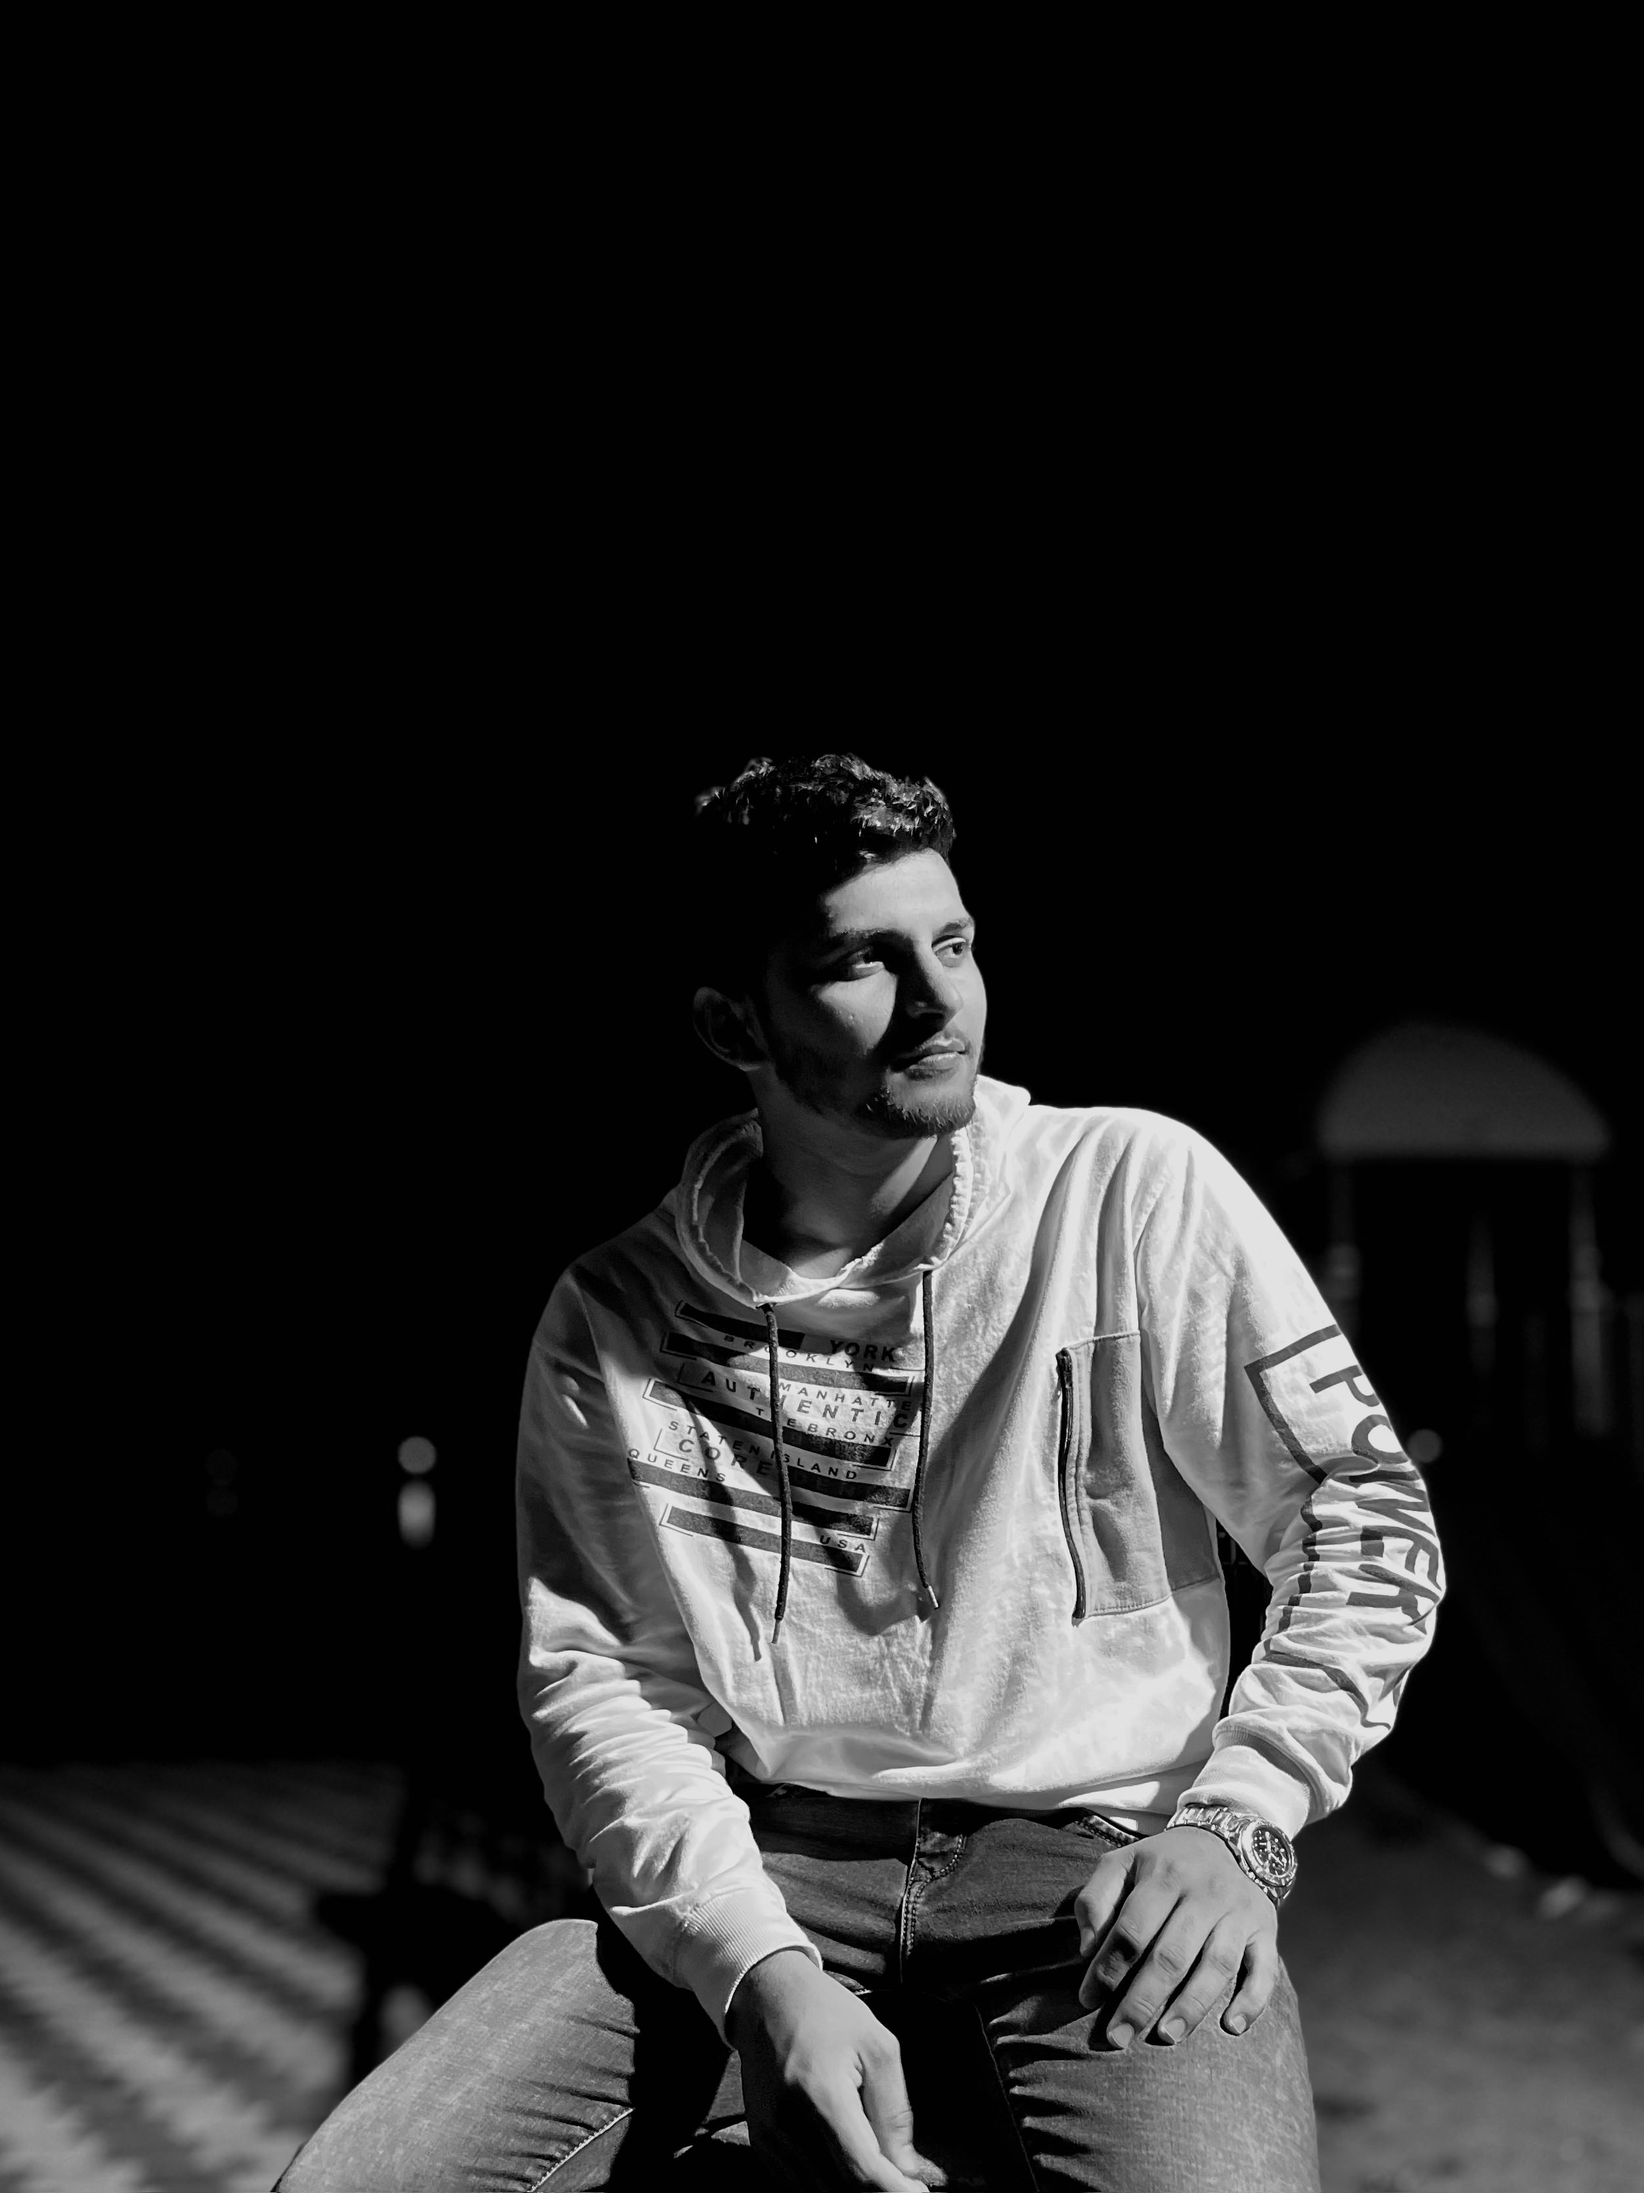
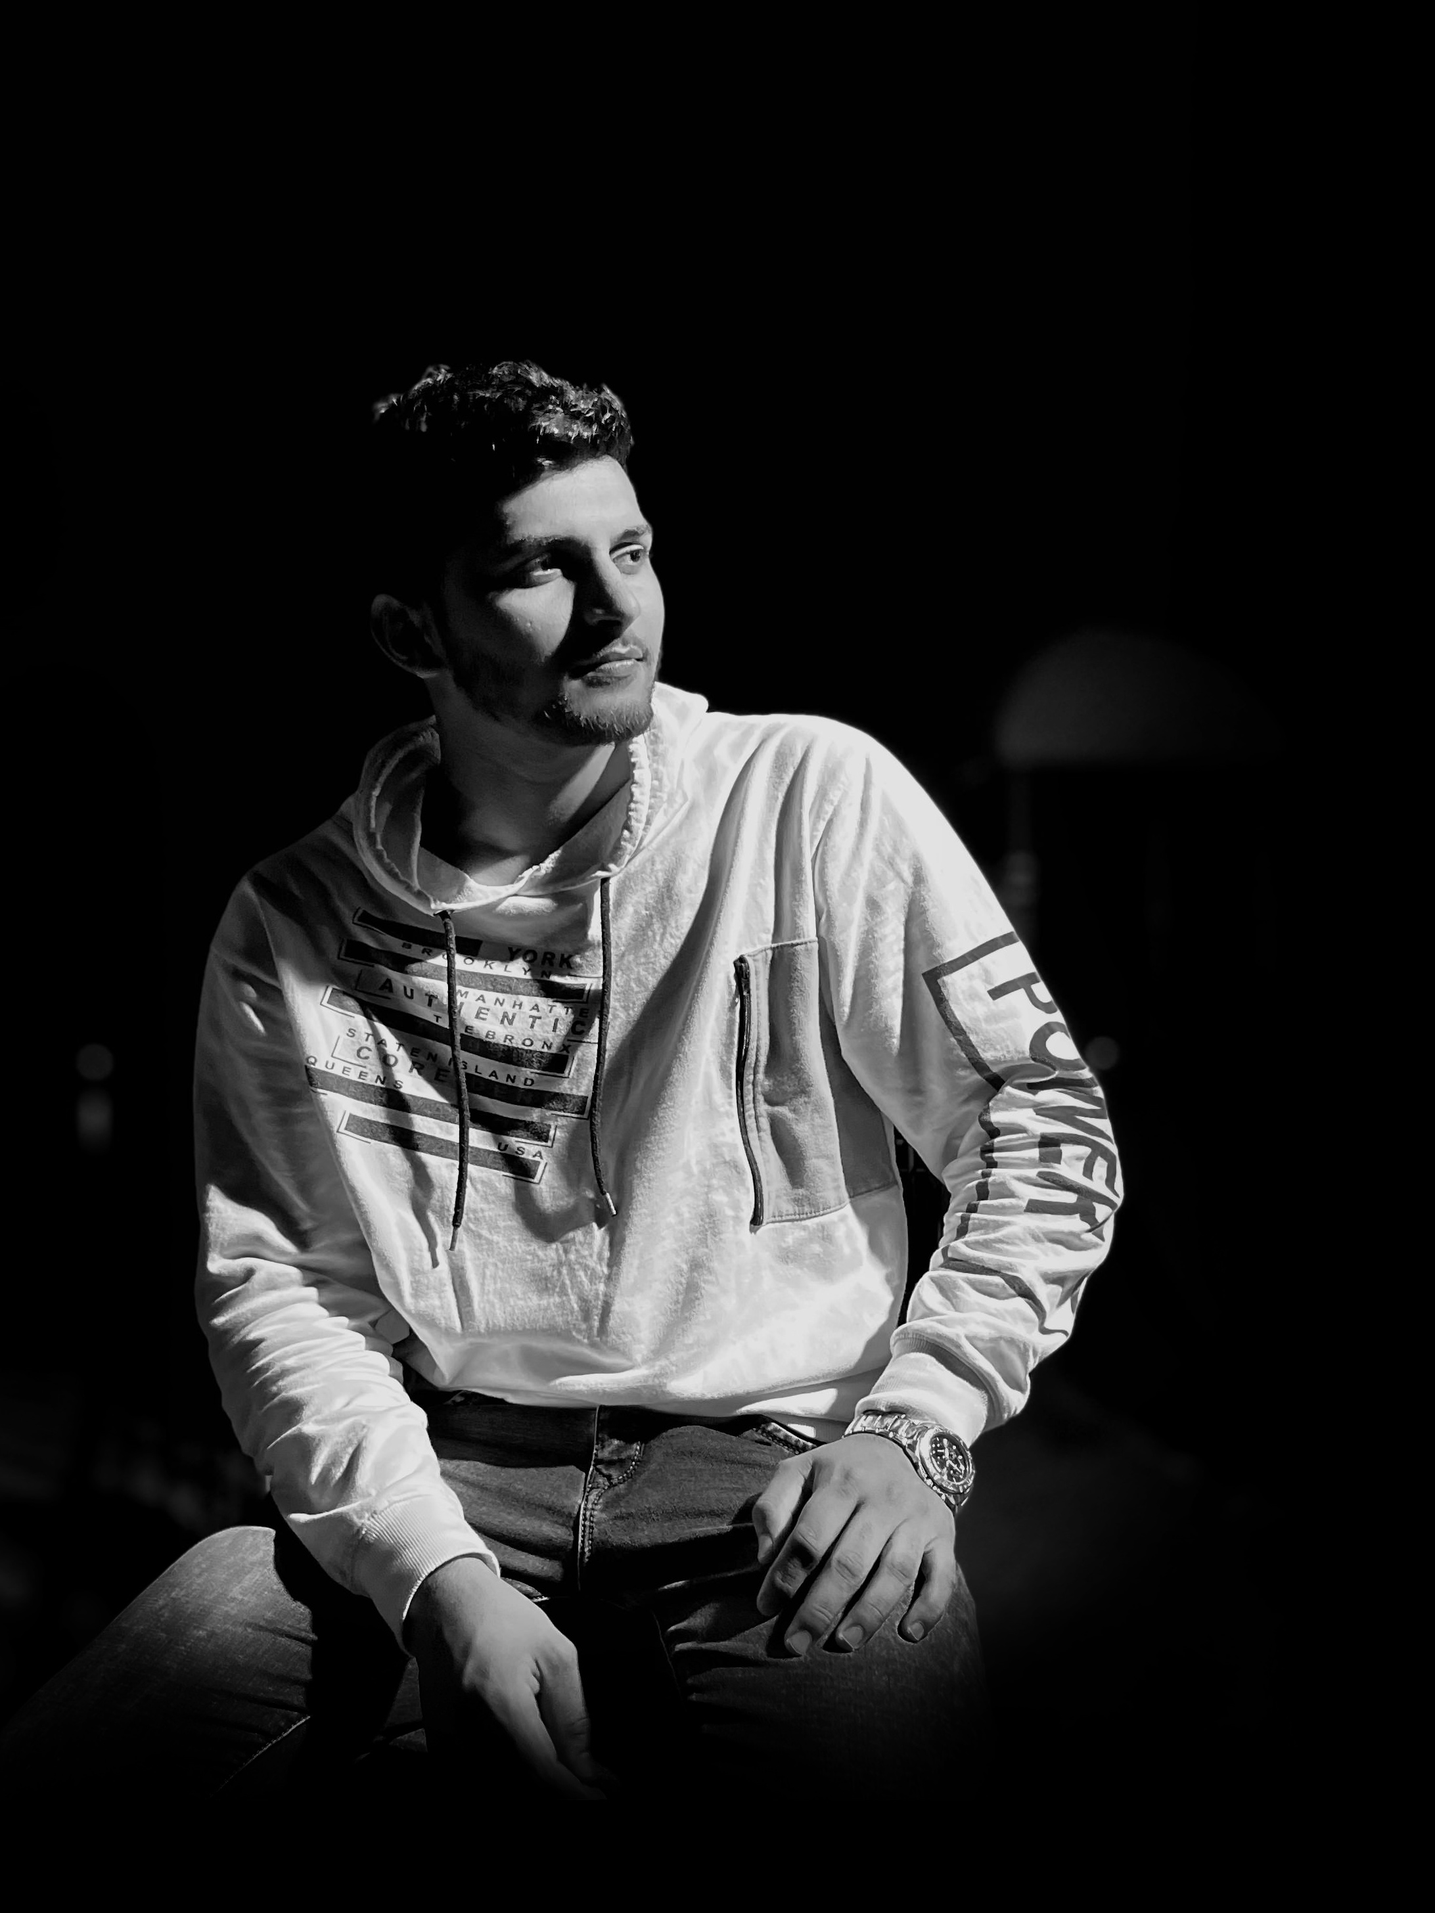
...

diff --git a/style.css b/style.css
@@ -1,7 +1,7 @@
 #main-body{
     
-    background-image:linear-gradient(0deg,#000,transparent 50%),url('/me.jpg');
-    background-position: -150px -90px;
+    background-image:linear-gradient(0deg,#000,transparent 20%),url('/me.jpg');
+    background-position:  -120px;
     background-size:contain;
     background-repeat: no-repeat;
     background-color: black;
@@ -39,4 +39,24 @@
     text-align: right; 
     float: right; 
     font-style:normal;
+}
+
+#hi-font{
+    color: white;
+    font-weight: 100;
+    font-family:'Lucida Sans', 'Lucida Sans Regular', 'Lucida Grande', 'Lucida Sans Unicode', Geneva, Verdana, sans-serif;
+    font-size: 45;
+    position: relative;
+    left: 500;
+    top: 120;
+}   
+
+#profession-font{
+    color: white;
+    font-weight: 800;
+    font-family:'Lucida Sans', 'Lucida Sans Regular', 'Lucida Grande', 'Lucida Sans Unicode', Geneva, Verdana, sans-serif;
+    font-size: 75;
+    position: relative;
+    left: 500;
+    top: 120;
 }

diff --git a/README.md b/README.md
@@ -14,6 +14,11 @@
     </nav>
 </div>
 
+<div>
+    <h2 id="hi-font">Hi, I am Shan</h2>
+    <h1 id="profession-font">Software developer,<br> Analyst,<br>Student. </h1>
+
+</div>
 
 </body>
 </html>
